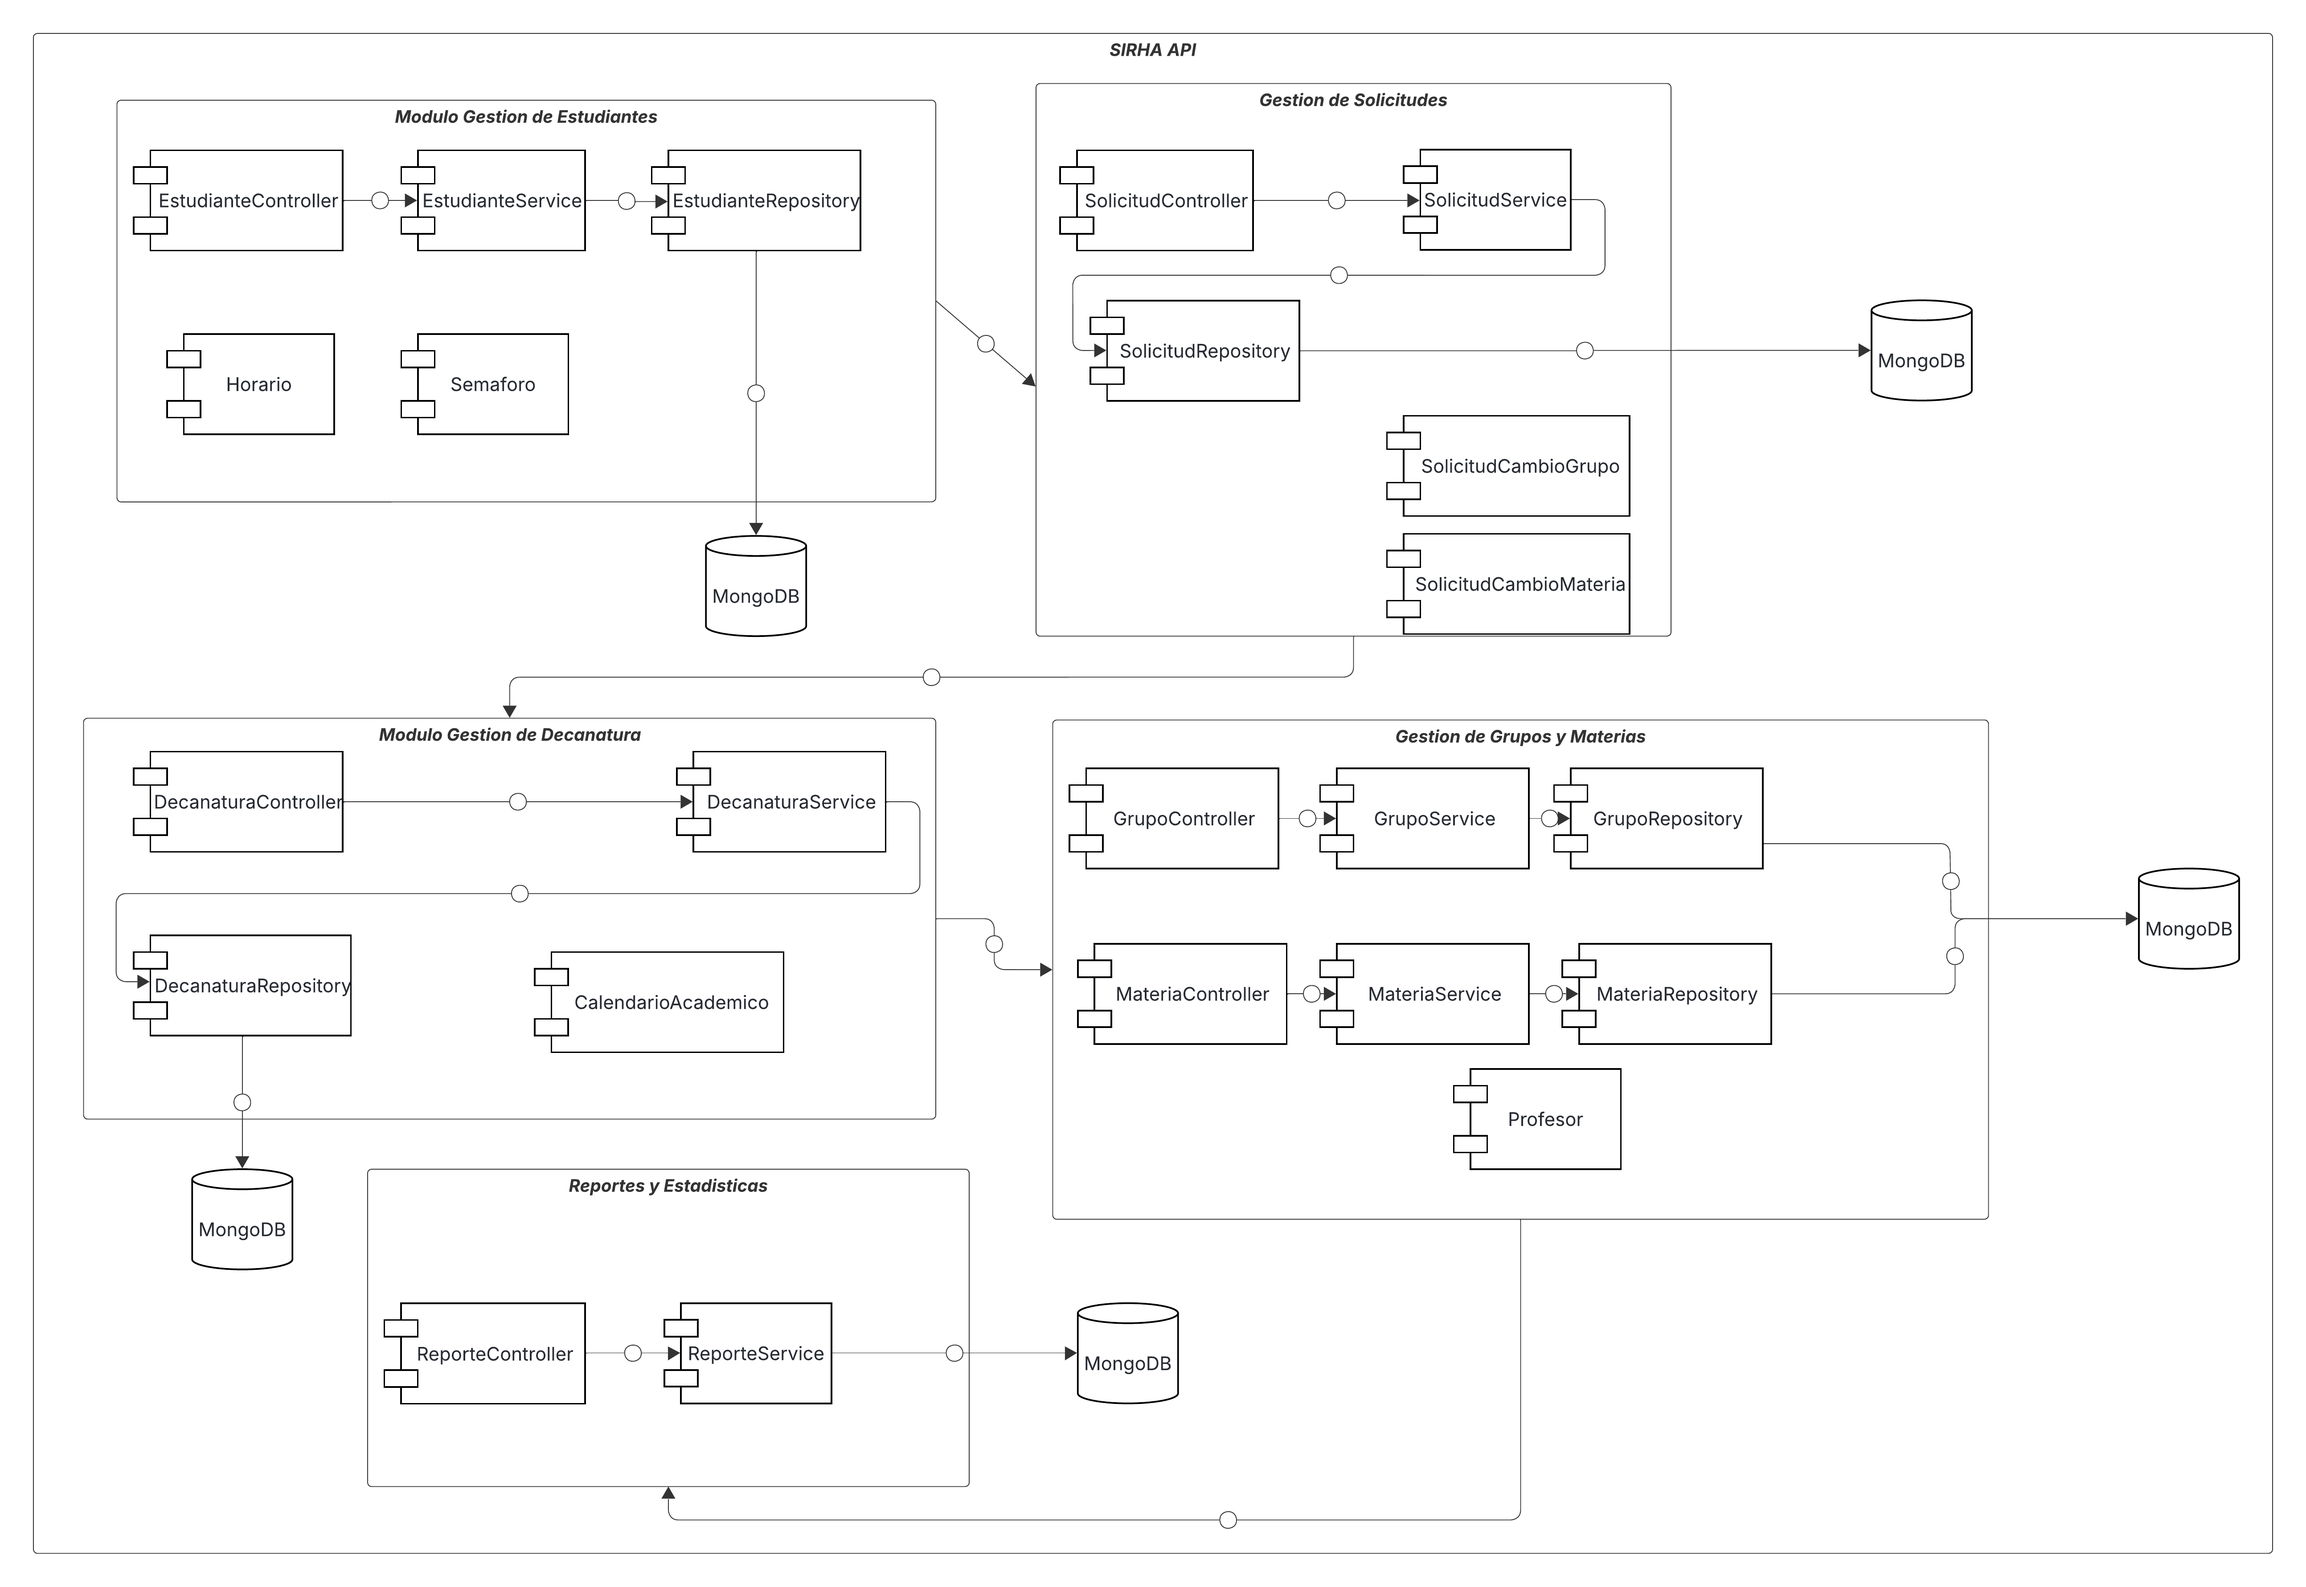
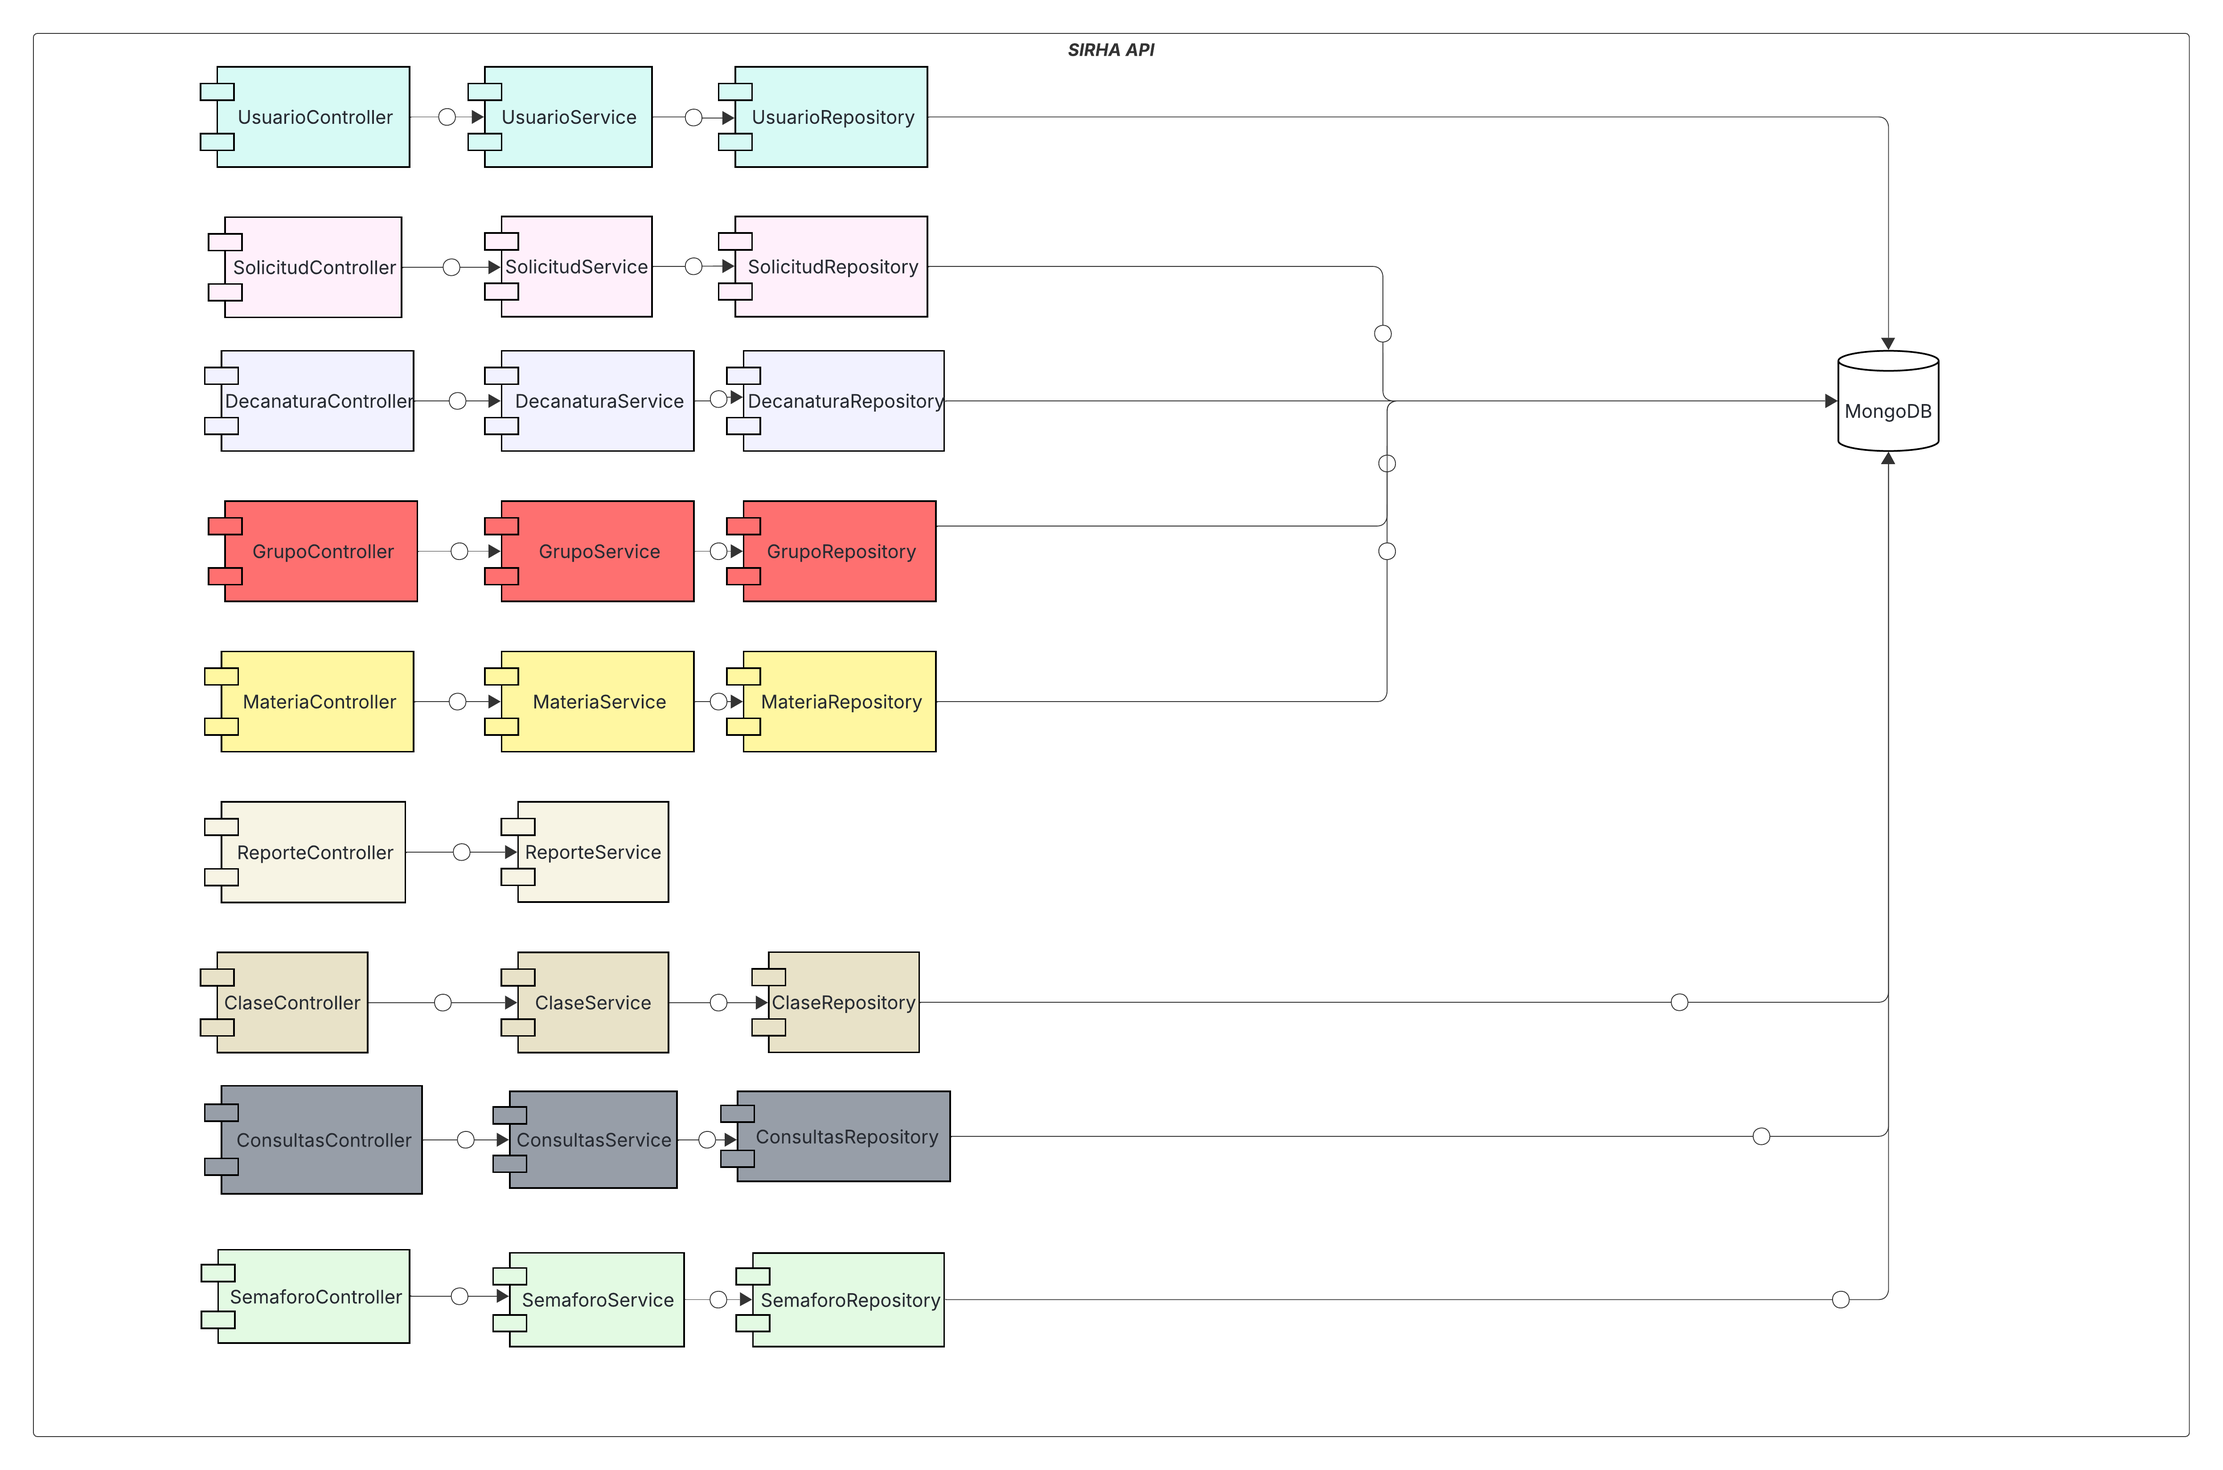
feat: Proyecto - Actualizar README y diagramas

diff --git a/README.md b/README.md
@@ -31,21 +31,35 @@ El proyecto sigue el patrón **MVC (Modelo - Vista - Controlador)**:
 ### Diagrama de Contexto
 ![Diagrama de Contexto](./docs/DiagramaDeContexto.png)
 
+En este diagrama observamos de manera general, como interactúan los tres tipos de usuarios que usaran el sistema con el mismo. En primer lugar, vemos como el estudiante utiliza el sistema, con el fin de realizar o mirar el estado de sus solicitudes. Por otro lado, la decanatura realiza la gestión de horarios, validando, aprobando o rechazando las solicitudes que recibe de los estudiantes de su programa. Por último, el administrador configura otros aspectos del sistema, como periodos de tiempo válidos para la realización de solicitudes, reportes, entre otros. 
+
 ### Diagrama de Clases
 ![Diagrama de Clases](./docs/DiagramaDeClases.png)
+
+El diagrama de clases tiene varios componentes con el fin de proporcionar un diseño completo para cubrir todas las funcionalidades mencionadas del sistema. En primer lugar, utilizamos una clase abstracta usuario para agrupar las características que comparten todos los usuarios de la aplicación, sus subclases incluyen administrativo, profesor y estudiante. Con estudiante se relacionan las clases horario y semáforo, y con la clase horario se relaciona grupo, y con grupo vemos que se relaciona materia. Adicionalmente, se usa el patrón Observer para las notificaciones en cuanto a los cupos de los grupos, con el fin de que se notifique cuando un grupo este en el 90% de su capacidad. De manera similar, utilizamos este mismo patrón nuevamente, pero para notificar en caso de que el periodo en el que se quiera hacer alguna de las operaciones sea un periodo habilitado o no. Otro patrón que utilizamos es el Command, esto se evidencia en la interfaz AccionSolicitudCommand, y sus subclases, con lo cual definimos la lógica para aceptar o rechazar una solicitud. Para manejar las solicitudes usamos la clase abstracta Solicitud y sus subclases para cubrir todos los tipos de solicitudes existentes, específicamente, cambio de grupo, cambio de asignatura y deserción de asignatura. Por último, vemos que se incluyeron algunos de los servicios.
 
 ### Diagrama de Casos de Uso
 ![Diagrama de Casos de Uso](./docs/DiagramaDeCasosDeUso.png)
 
+En este diagrama evidenciamos los casos de uso del sistema para los tres usuarios de la aplicación. Para el estudiante, principalmente incluye realizar los distintos tipos de solicitudes posibles, asi como hacer logiin y consultar su plan de estudios en el semaforo. Para los usuarios de decanatura, incluye gestionar las solicitudes de los estudiantes que pertenecen a su decanatura, asi como ver la informacion de los estudiantes y consultar mayor informacion acerca de los grupos de las materias. Por último, el usuario administrador tiene como casos de uso administrar los usuarios y sus roles, gestionar otros aspectos como el catalogo que se ofrece de materias o configurar los cupos máximos para los grupos. 
+
 ### Diagrama de Componentes General
 ![Diagrama de Componentes General](./docs/DiagramaDeComponentesGeneral.png)
+
+Por medio de este diagrama observamos de manera general los componentes del sistema, estos los separamos en tres, la base de datos que se trabaja con MongoDB, el backend donde utilizamos Spring Boot, y el Frontend donde utilizaremos React. 
 
 ### Diagrama de Componentes Especifico
 ![Diagrama de Componentes Especifico](./docs/DiagramaDeComponentesEspecifico.png)
 
+A través del diagrama de componentes especifico, podemos observar la arquitectura utilizada para manejar los diferentes elementos que componen el sistema, es decir, el front, la base de datos y la lógica de negocio del sistema. Para esto utilizamos para todas las clases modelo una clase Controller que recibe comandos desde el front, una Service con la lógica de negocio y una Repository para llevar a cabo acciones con la base de datos de MongoDB. La única excepción es el controlador y servicio de los Reportes, la cual no necesita acceder a la base de datos por medio de un repositorio ya que no efectúa ningún cambio.
+
 ### Diagrama de Base de Datos
 ![Diagrama de Base de Datos](./docs/DiagramaDeBaseDeDatos.png)
 
+En este diagrama se evidencia la estructura embebida/referenciada por medio de la composición/agregación, respectivamente. Además, incluimos dos ejemplos de la estructura en JSON, uno para composición para los Estudiantes y su Semáforo donde la información del semáforo esta dentro del mismo documento de los estudiantes, y uno entre Materias y Grupos, donde solamente se referencia los grupos.
+
+### Diagrama de Despliegue
+![Diagrama de Despliegue](./docs/DiagramaDeDespliegue.png)
 
 ---
 ## Estrategia de Versionamiento y Branches
@@ -55,6 +69,11 @@ El proyecto sigue el patrón **MVC (Modelo - Vista - Controlador)**:
 - `feature/*`: nuevas funcionalidades.  
 - `bugfix/*`: correcciones de errores.  
 - `release/*`: preparación de versiones.  
+
+## Estructura de los commits
+
+Cada commit realizado debe seguir el siguiente template:
+"feat: Proyecto - Acción realizada"
 
 ## Autores
 - Sebastián Barros
